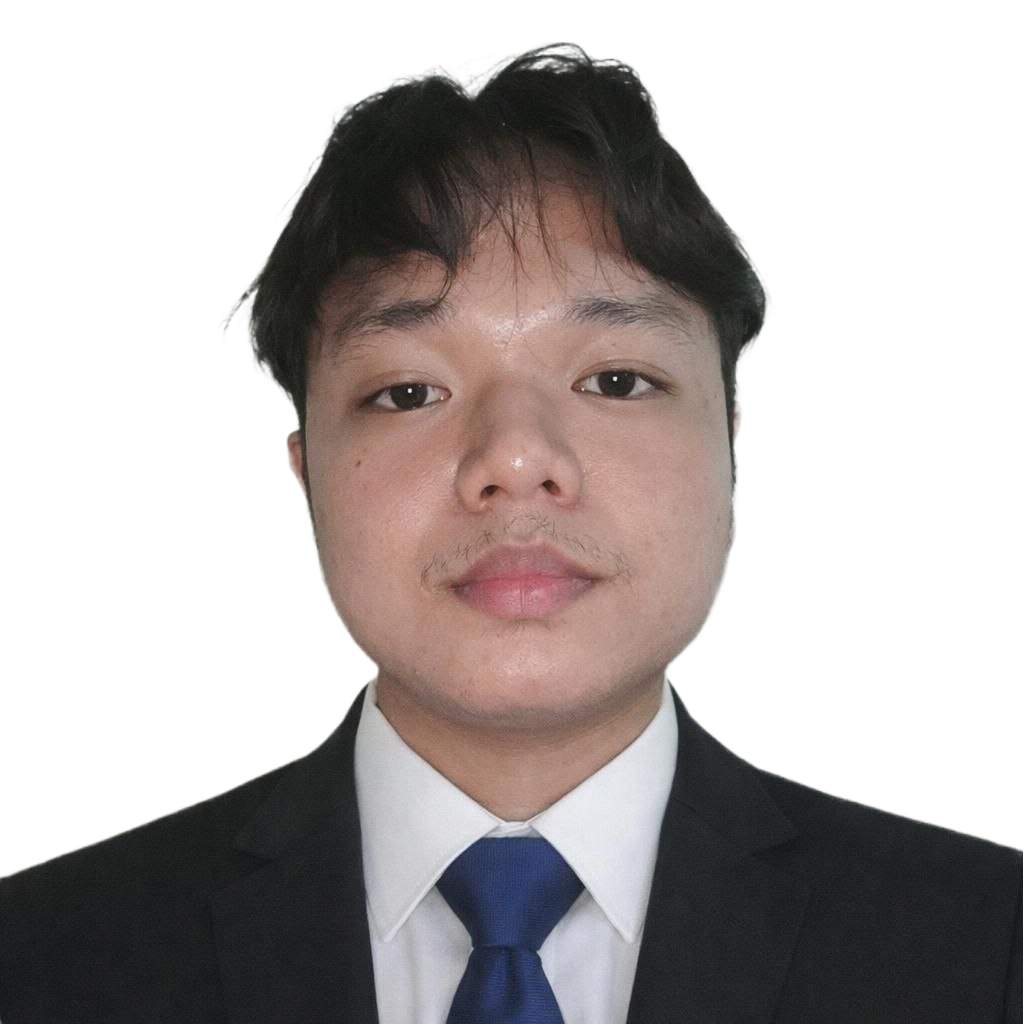
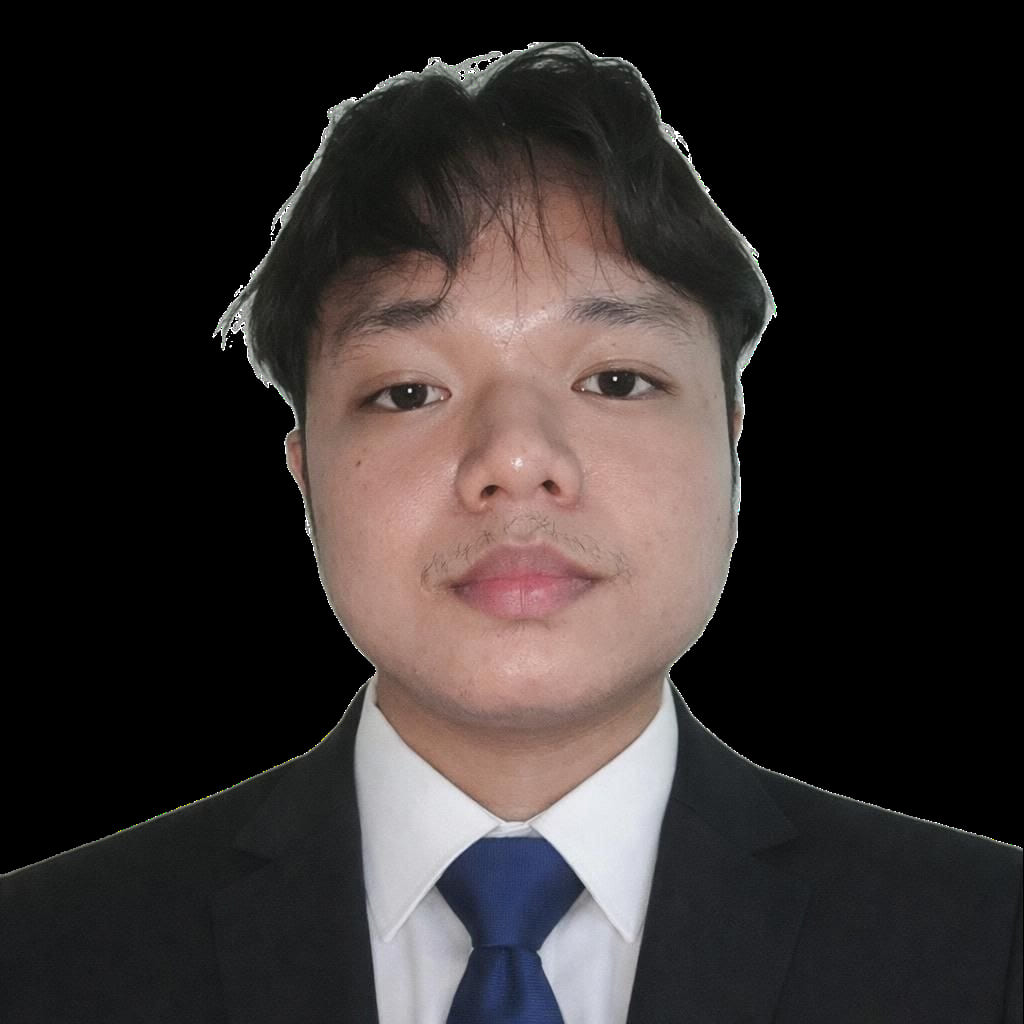
style: lighten dark mode backgrounds

diff --git a/index.html b/index.html
@@ -4,7 +4,7 @@
 <head>
   <meta charset="UTF-8">
   <meta name="viewport" content="width=device-width, initial-scale=1.0">
-  <meta name="theme-color" content="#09090b">
+  <meta name="theme-color" content="#18181b">
   <meta name="description"
     content="Jeof Sison - IT Support Specialist, Service Desk Analyst, and Developer. BSIT Graduate with experience in troubleshooting, web development, and game development.">
   <meta name="author" content="Jeof Yciar T. Sison">

diff --git a/assets/css/style.css b/assets/css/style.css
@@ -6,10 +6,10 @@ html { scroll-behavior: smooth; }
 
 /* CSS Variables */
 :root {
-  --bg:   #09090b;
-  --bg2:  #18181b;
-  --surf: #27272a;
-  --s2:   #3f3f46;
+  --bg:   #18181b;
+  --bg2:  #27272a;
+  --surf: #3f3f46;
+  --s2:   #52525b;
   --bdr:  rgba(249,115,22,.2);
   --bdr2: rgba(249,115,22,.45);
   --v:    #f97316;
